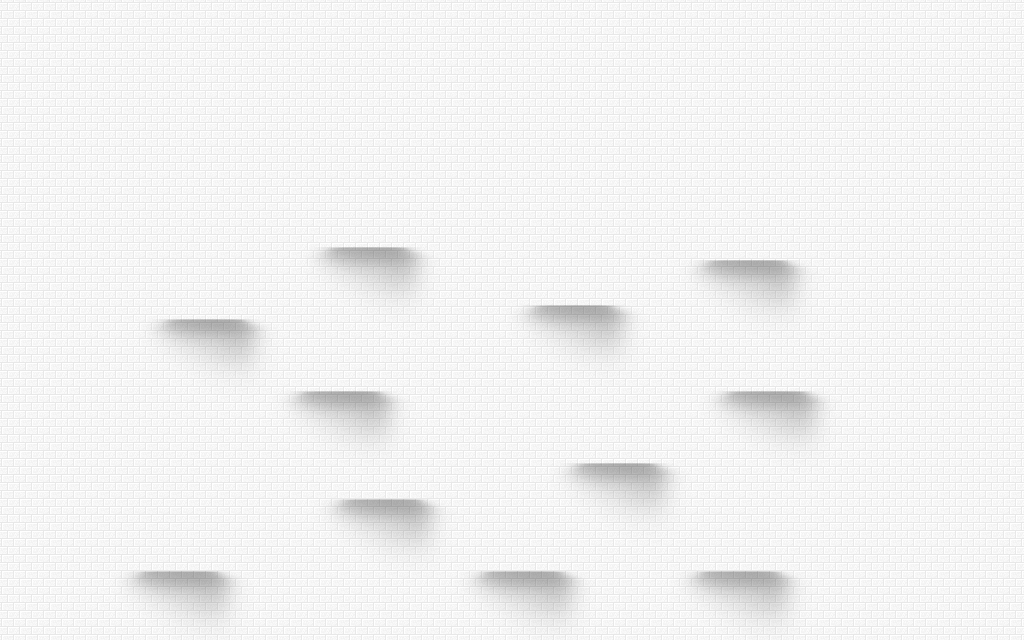
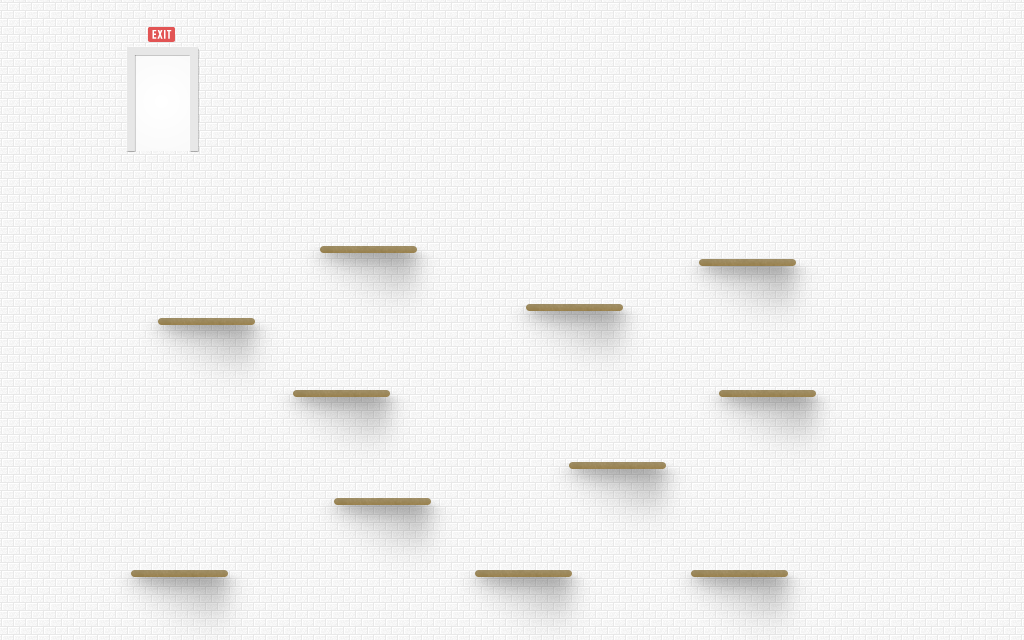
Load level background

diff --git a/public/css/global.css b/public/css/global.css
@@ -162,3 +162,11 @@ body {
   margin: 0 auto;
   background: url('/img/level-asset-background-01.png?1354373823');
 }
+/* line 150, ../sass/global.scss */
+#gamescape.level2 {
+  background: url('/img/level-asset-background-02-dev.png?1354376843');
+}
+/* line 154, ../sass/global.scss */
+#gamescape.level3 {
+  background: url('/img/level-asset-background-03.png?1354377050');
+}

diff --git a/public/sass/global.scss b/public/sass/global.scss
@@ -146,4 +146,12 @@ body {
   background-color: #fafafa;
   margin: 0 auto;
   @include background(image-url('level-asset-background-01.png'));
+
+  &.level2 {
+      @include background(image-url('level-asset-background-02-dev.png'));
+  }
+
+  &.level3 {
+      @include background(image-url('level-asset-background-03.png'));
+  }
 }
